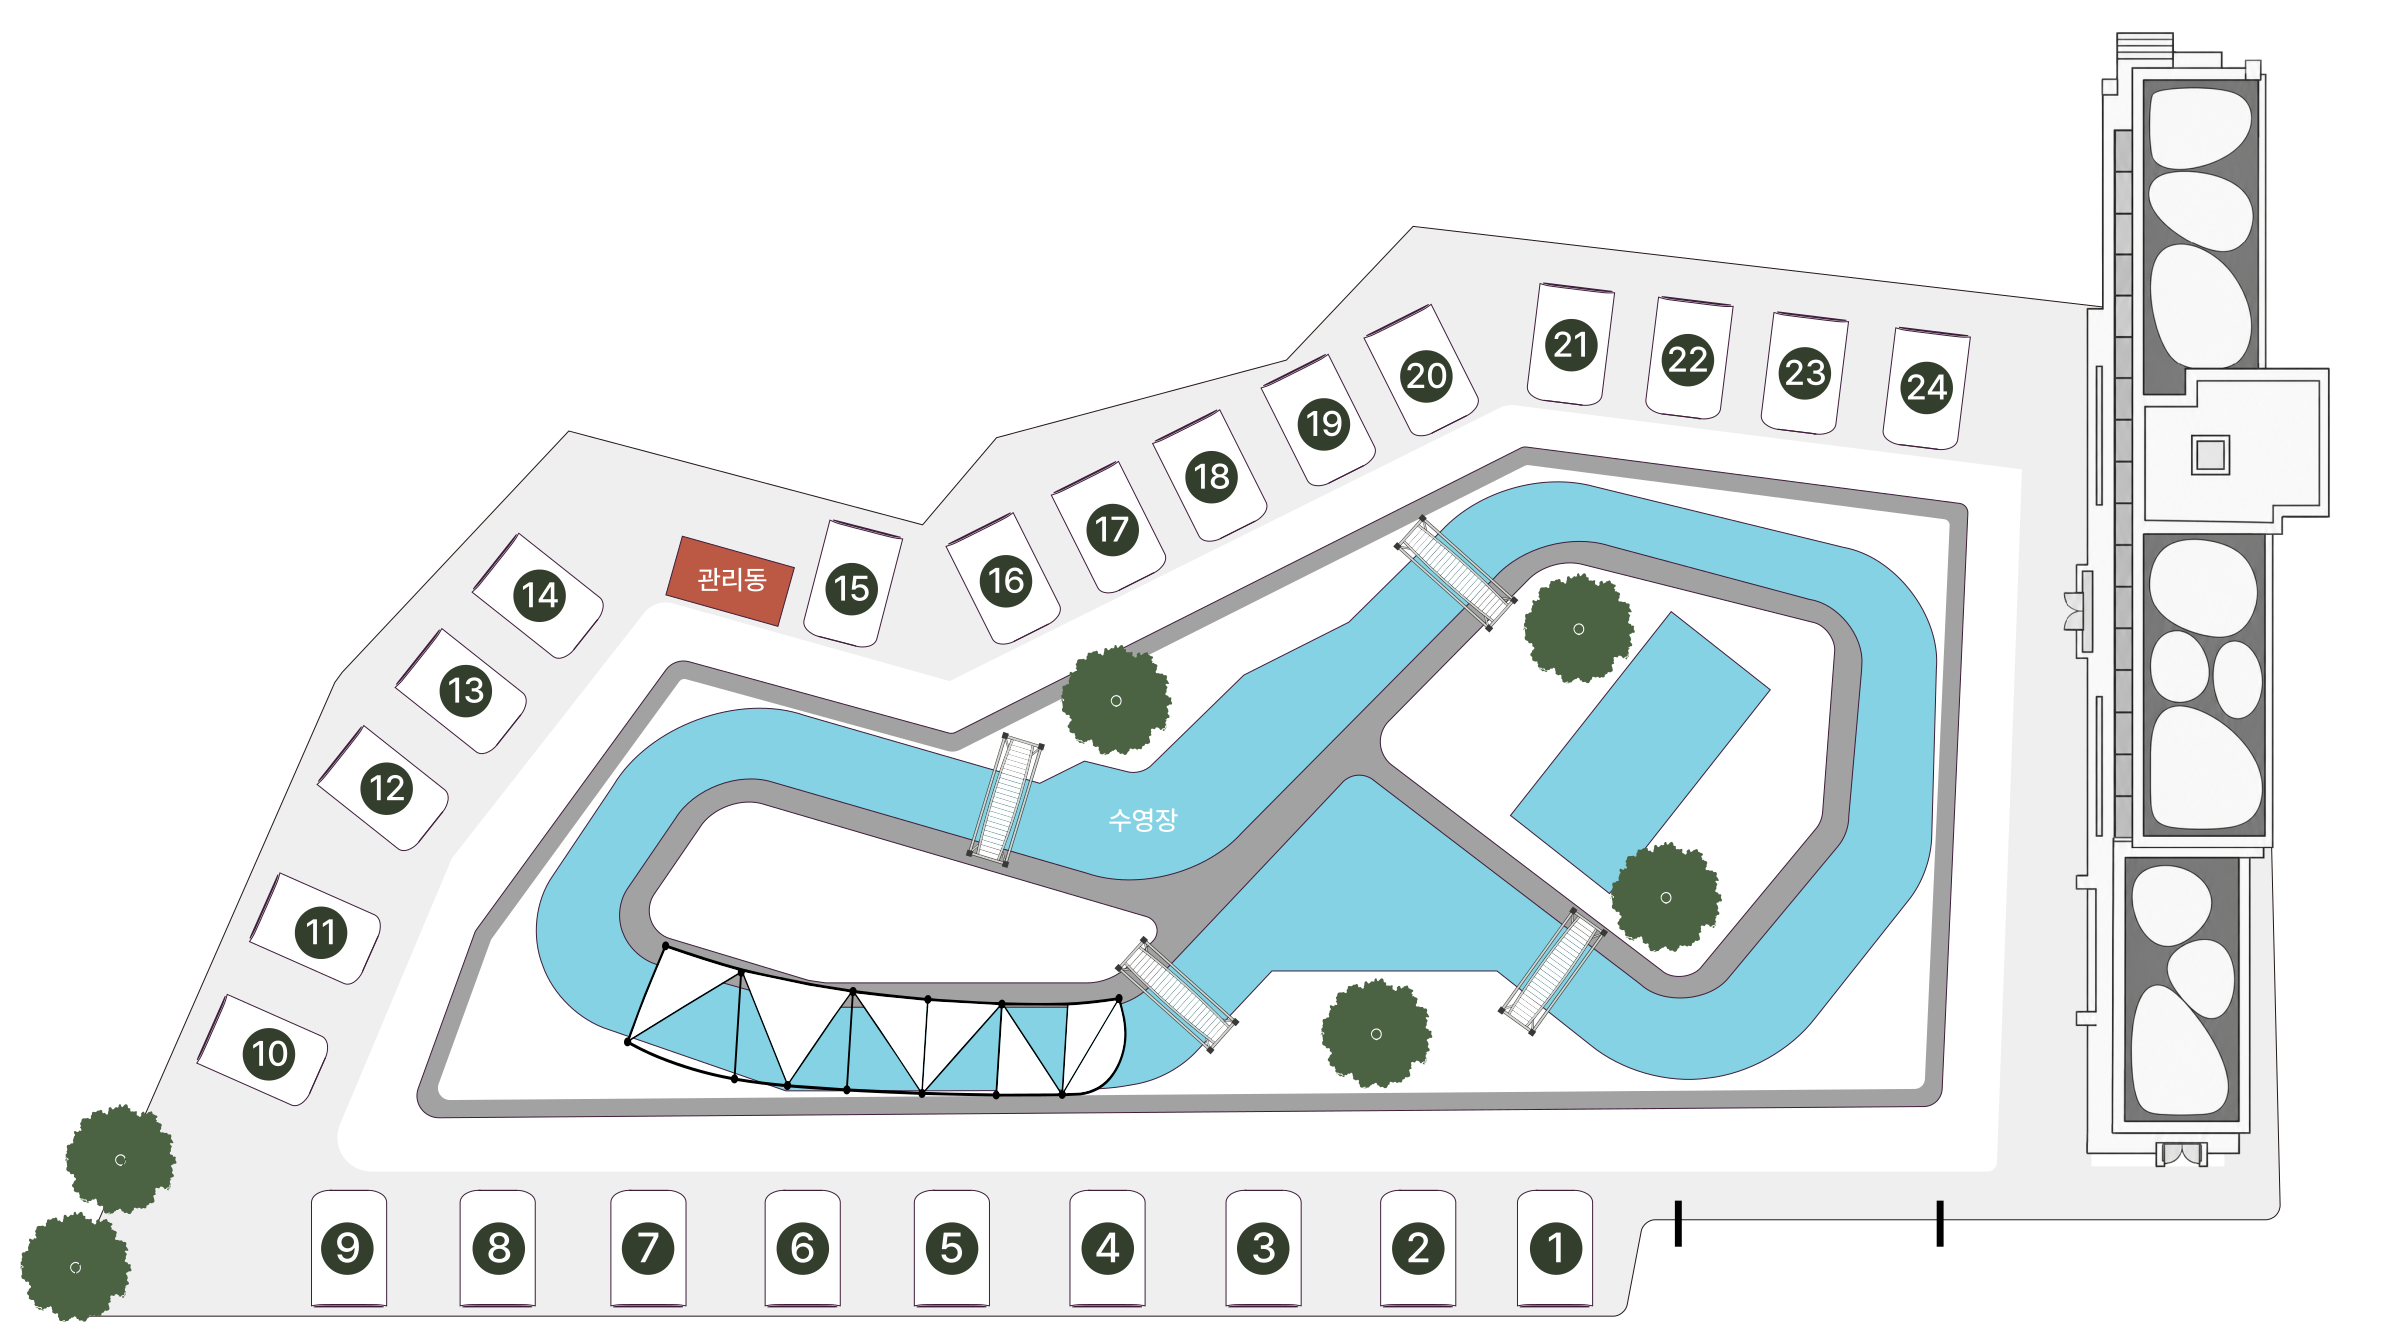
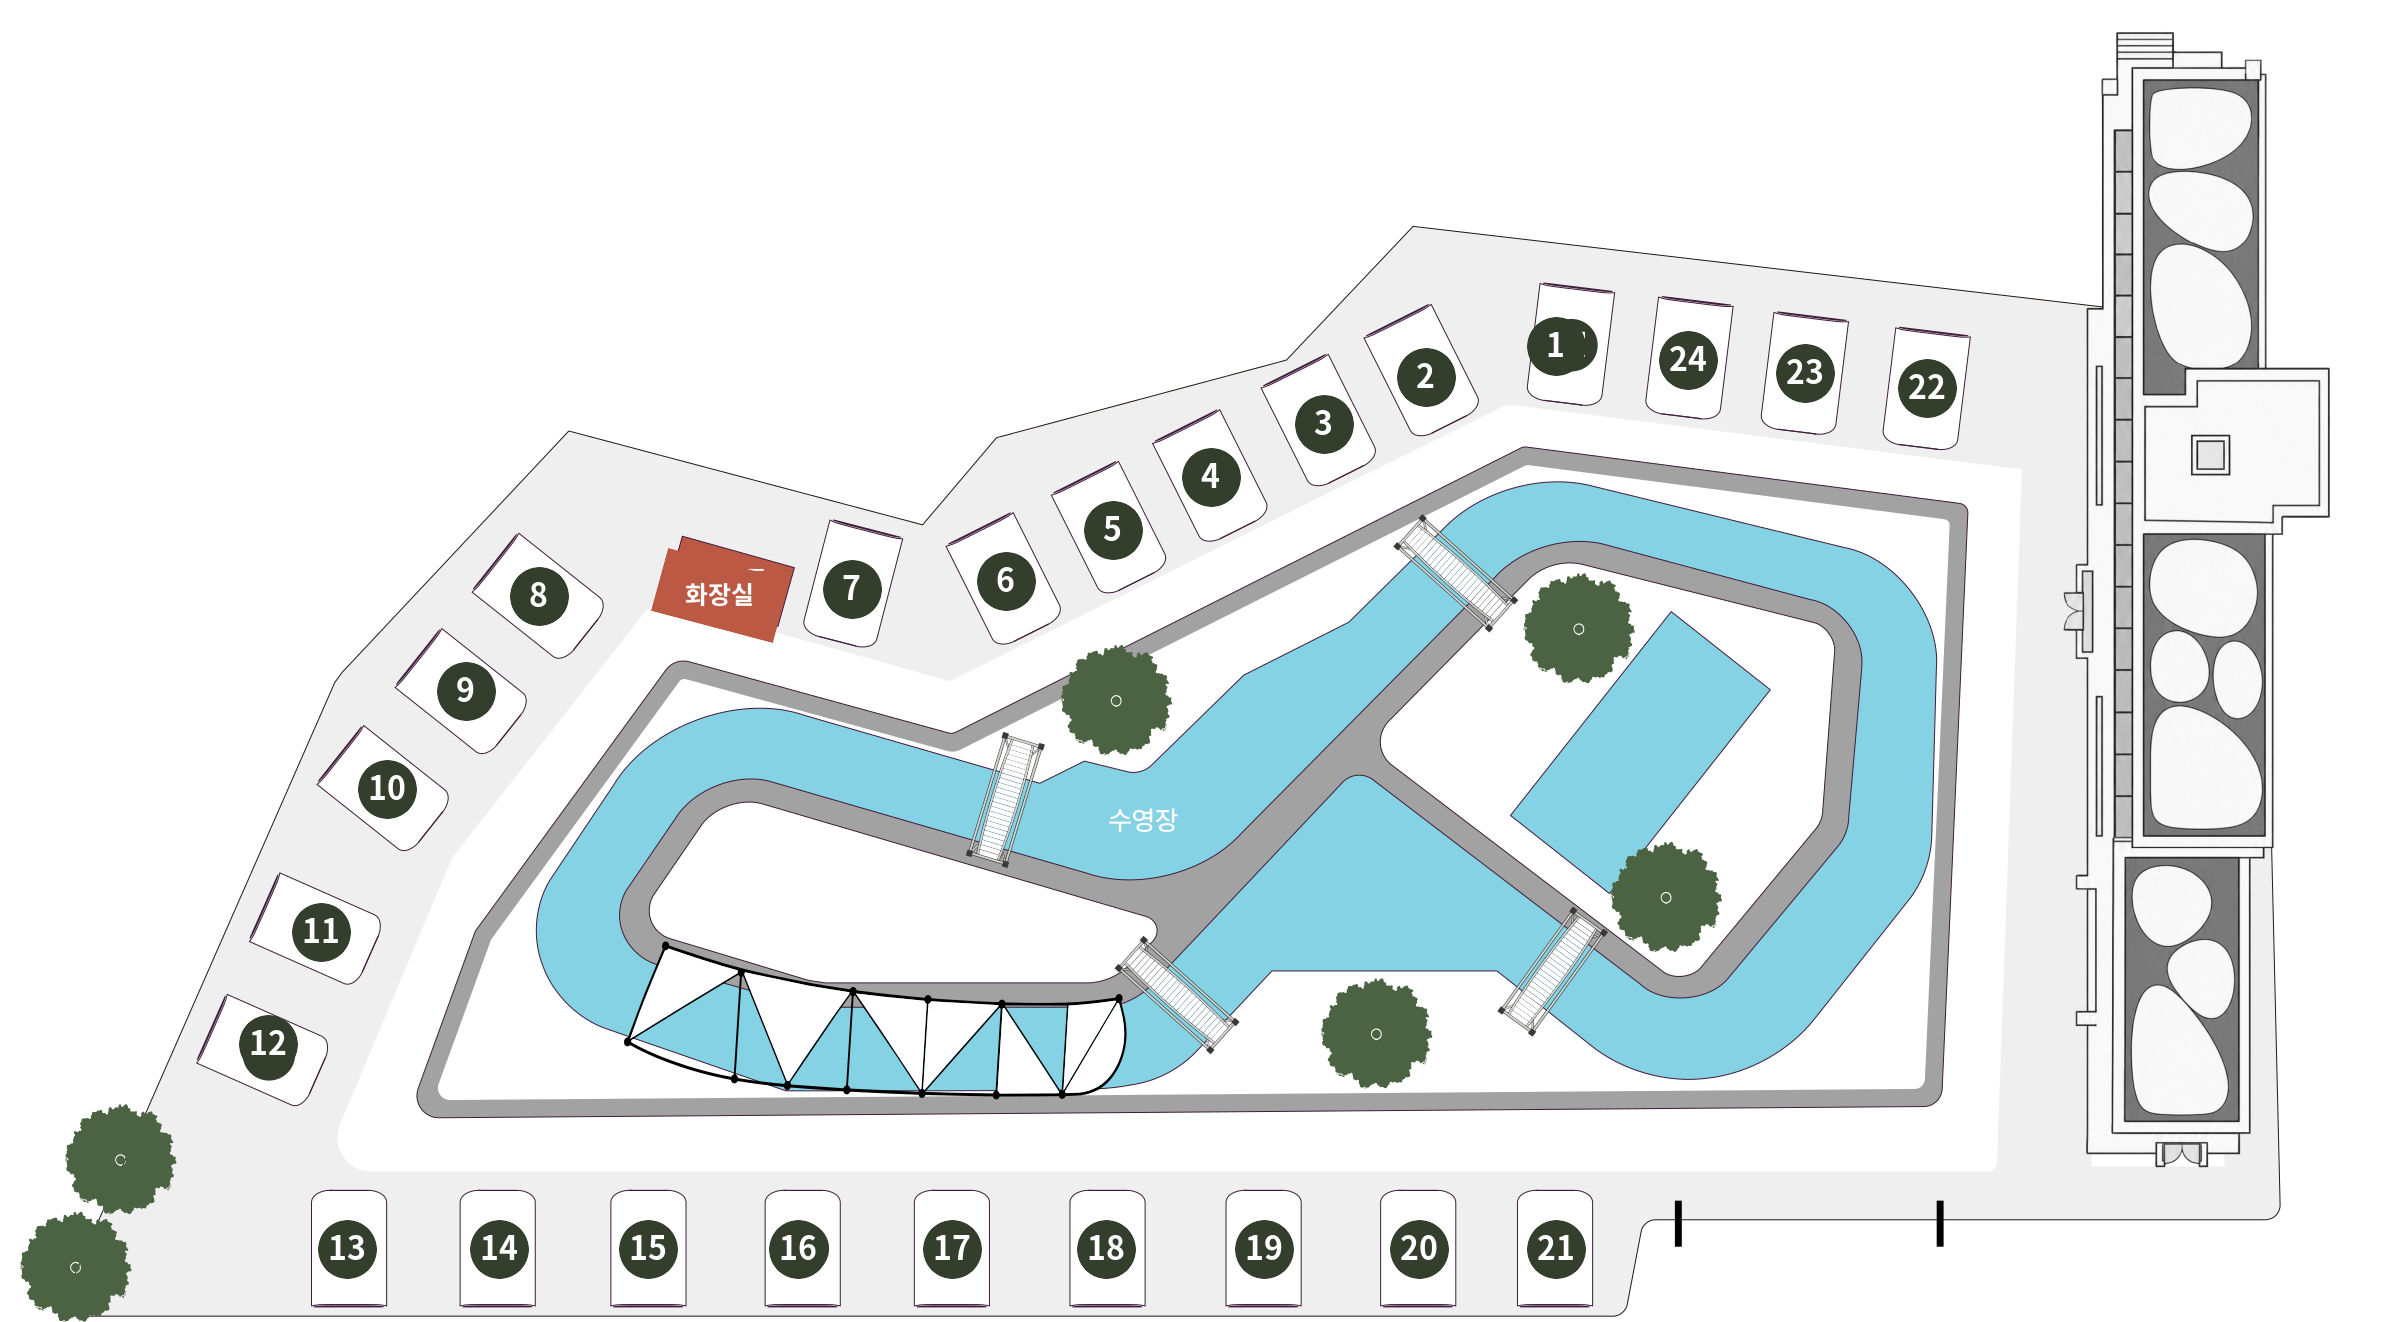
공간 안내 쉘터 번호 방향 및 화장실 표기 수정

diff --git a/space.html b/space.html
@@ -5,32 +5,32 @@
   <div class="container">
     <div class="site-map" data-site-map>
       <div class="site-map-canvas">
-        <img src="assets/images/relim-site-map.png" alt="1번부터 24번까지의 쉘터, 관리동과 수영장 위치를 표시한 리림 시설 안내도" width="2407" height="1322">
+        <img src="assets/images/relim-site-map.png" alt="최상단 1번부터 반시계 방향 24번까지의 쉘터, 화장실과 수영장 위치를 표시한 리림 시설 안내도" width="2407" height="1322">
         <div class="site-map-hotspots" aria-label="리림 쉘터 번호 선택">
-          <button class="site-hotspot" style="--x:64.65%;--y:94.45%" data-site="01" aria-label="리림 01번 쉘터"><span>01</span></button>
-          <button class="site-hotspot" style="--x:58.93%;--y:94.45%" data-site="02" aria-label="리림 02번 쉘터"><span>02</span></button>
-          <button class="site-hotspot" style="--x:52.48%;--y:94.45%" data-site="03" aria-label="리림 03번 쉘터"><span>03</span></button>
-          <button class="site-hotspot" style="--x:46.03%;--y:94.45%" data-site="04" aria-label="리림 04번 쉘터"><span>04</span></button>
-          <button class="site-hotspot" style="--x:39.55%;--y:94.45%" data-site="05" aria-label="리림 05번 쉘터"><span>05</span></button>
-          <button class="site-hotspot" style="--x:33.35%;--y:94.45%" data-site="06" aria-label="리림 06번 쉘터"><span>06</span></button>
-          <button class="site-hotspot" style="--x:26.92%;--y:94.45%" data-site="07" aria-label="리림 07번 쉘터"><span>07</span></button>
-          <button class="site-hotspot" style="--x:20.72%;--y:94.45%" data-site="08" aria-label="리림 08번 쉘터"><span>08</span></button>
-          <button class="site-hotspot" style="--x:14.43%;--y:94.45%" data-site="09" aria-label="리림 09번 쉘터"><span>09</span></button>
-          <button class="site-hotspot" style="--x:11.17%;--y:79.75%" data-site="10" aria-label="리림 10번 쉘터"><span>10</span></button>
+          <button class="site-hotspot" style="--x:65.29%;--y:26.11%" data-site="01" aria-label="리림 01번 쉘터"><span>01</span></button>
+          <button class="site-hotspot" style="--x:59.26%;--y:28.48%" data-site="02" aria-label="리림 02번 쉘터"><span>02</span></button>
+          <button class="site-hotspot" style="--x:55.00%;--y:32.11%" data-site="03" aria-label="리림 03번 쉘터"><span>03</span></button>
+          <button class="site-hotspot" style="--x:50.34%;--y:36.10%" data-site="04" aria-label="리림 04번 쉘터"><span>04</span></button>
+          <button class="site-hotspot" style="--x:46.23%;--y:40.10%" data-site="05" aria-label="리림 05번 쉘터"><span>05</span></button>
+          <button class="site-hotspot" style="--x:41.79%;--y:43.97%" data-site="06" aria-label="리림 06번 쉘터"><span>06</span></button>
+          <button class="site-hotspot" style="--x:35.39%;--y:44.56%" data-site="07" aria-label="리림 07번 쉘터"><span>07</span></button>
+          <button class="site-hotspot" style="--x:22.42%;--y:45.07%" data-site="08" aria-label="리림 08번 쉘터"><span>08</span></button>
+          <button class="site-hotspot" style="--x:19.35%;--y:52.28%" data-site="09" aria-label="리림 09번 쉘터"><span>09</span></button>
+          <button class="site-hotspot" style="--x:16.06%;--y:59.66%" data-site="10" aria-label="리림 10번 쉘터"><span>10</span></button>
           <button class="site-hotspot" style="--x:13.34%;--y:70.56%" data-site="11" aria-label="리림 11번 쉘터"><span>11</span></button>
-          <button class="site-hotspot" style="--x:16.06%;--y:59.66%" data-site="12" aria-label="리림 12번 쉘터"><span>12</span></button>
-          <button class="site-hotspot" style="--x:19.35%;--y:52.28%" data-site="13" aria-label="리림 13번 쉘터"><span>13</span></button>
-          <button class="site-hotspot" style="--x:22.42%;--y:45.07%" data-site="14" aria-label="리림 14번 쉘터"><span>14</span></button>
-          <button class="site-hotspot" style="--x:35.39%;--y:44.56%" data-site="15" aria-label="리림 15번 쉘터"><span>15</span></button>
-          <button class="site-hotspot" style="--x:41.79%;--y:43.97%" data-site="16" aria-label="리림 16번 쉘터"><span>16</span></button>
-          <button class="site-hotspot" style="--x:46.23%;--y:40.10%" data-site="17" aria-label="리림 17번 쉘터"><span>17</span></button>
-          <button class="site-hotspot" style="--x:50.34%;--y:36.10%" data-site="18" aria-label="리림 18번 쉘터"><span>18</span></button>
-          <button class="site-hotspot" style="--x:55.00%;--y:32.11%" data-site="19" aria-label="리림 19번 쉘터"><span>19</span></button>
-          <button class="site-hotspot" style="--x:59.26%;--y:28.48%" data-site="20" aria-label="리림 20번 쉘터"><span>20</span></button>
-          <button class="site-hotspot" style="--x:65.29%;--y:26.11%" data-site="21" aria-label="리림 21번 쉘터"><span>21</span></button>
-          <button class="site-hotspot" style="--x:70.13%;--y:27.25%" data-site="22" aria-label="리림 22번 쉘터"><span>22</span></button>
+          <button class="site-hotspot" style="--x:11.17%;--y:79.75%" data-site="12" aria-label="리림 12번 쉘터"><span>12</span></button>
+          <button class="site-hotspot" style="--x:14.43%;--y:94.45%" data-site="13" aria-label="리림 13번 쉘터"><span>13</span></button>
+          <button class="site-hotspot" style="--x:20.72%;--y:94.45%" data-site="14" aria-label="리림 14번 쉘터"><span>14</span></button>
+          <button class="site-hotspot" style="--x:26.92%;--y:94.45%" data-site="15" aria-label="리림 15번 쉘터"><span>15</span></button>
+          <button class="site-hotspot" style="--x:33.35%;--y:94.45%" data-site="16" aria-label="리림 16번 쉘터"><span>16</span></button>
+          <button class="site-hotspot" style="--x:39.55%;--y:94.45%" data-site="17" aria-label="리림 17번 쉘터"><span>17</span></button>
+          <button class="site-hotspot" style="--x:46.03%;--y:94.45%" data-site="18" aria-label="리림 18번 쉘터"><span>18</span></button>
+          <button class="site-hotspot" style="--x:52.48%;--y:94.45%" data-site="19" aria-label="리림 19번 쉘터"><span>19</span></button>
+          <button class="site-hotspot" style="--x:58.93%;--y:94.45%" data-site="20" aria-label="리림 20번 쉘터"><span>20</span></button>
+          <button class="site-hotspot" style="--x:64.65%;--y:94.45%" data-site="21" aria-label="리림 21번 쉘터"><span>21</span></button>
+          <button class="site-hotspot" style="--x:80.05%;--y:29.35%" data-site="22" aria-label="리림 22번 쉘터"><span>22</span></button>
           <button class="site-hotspot" style="--x:74.99%;--y:28.24%" data-site="23" aria-label="리림 23번 쉘터"><span>23</span></button>
-          <button class="site-hotspot" style="--x:80.05%;--y:29.35%" data-site="24" aria-label="리림 24번 쉘터"><span>24</span></button>
+          <button class="site-hotspot" style="--x:70.13%;--y:27.25%" data-site="24" aria-label="리림 24번 쉘터"><span>24</span></button>
         </div>
       </div>
 
@@ -39,7 +39,7 @@
         <strong class="site-map-number" data-site-number>01</strong>
         <div>
           <h3 data-site-title>리림 01번 쉘터</h3>
-          <p data-site-description>하단 진입부와 가까운 개별 이용 쉘터입니다. 예약 시 배정된 번호를 지도에서 확인해 주세요.</p>
+          <p data-site-description>수영장 위쪽 산책 동선을 따라 배치된 개별 이용 쉘터입니다. 예약 안내에 표기된 번호와 대조해 주세요.</p>
         </div>
       </div>
     </div>
@@ -56,7 +56,7 @@
     <div class="number-list map-facilities">
       <div class="number-row"><span class="num">A</span><h3>Pool & Water</h3><p>지도 중앙의 수영장과 수로입니다. 계절과 현장 운영 상황에 따라 이용 범위가 달라질 수 있습니다.</p></div>
       <div class="number-row"><span class="num">B</span><h3>Individual Shelter</h3><p>01번부터 24번까지 일행별로 배정되는 개별 쉘터입니다. 예약 확정 안내에서 배정 위치를 확인해 주세요.</p></div>
-      <div class="number-row"><span class="num">C</span><h3>관리동</h3><p>체크인과 현장 안내가 필요한 경우 방문하는 관리 공간입니다.</p></div>
+      <div class="number-row"><span class="num">C</span><h3>화장실</h3><p>쉘터 7번과 8번 사이에 위치한 공용 화장실입니다.</p></div>
     </div>
   </div>
 </section></main>

diff --git a/assets/js/script.js b/assets/js/script.js
@@ -35,13 +35,13 @@ function initSiteMap() {
 
   const getArea = (site) => {
     const number = Number(site);
-    if (number <= 9) {
-      return '하단 진입부와 가까운 개별 이용 쉘터입니다. 예약 시 배정된 번호를 지도에서 확인해 주세요.';
+    if (number <= 7 || number >= 22) {
+      return '수영장 위쪽 산책 동선을 따라 배치된 개별 이용 쉘터입니다. 예약 안내에 표기된 번호와 대조해 주세요.';
     }
-    if (number <= 14) {
+    if (number <= 12) {
       return '수영장 왼쪽 동선을 따라 배치된 개별 이용 쉘터입니다. 현장 이동 전 위치를 확인해 주세요.';
     }
-    return '수영장 위쪽 산책 동선을 따라 배치된 개별 이용 쉘터입니다. 예약 안내에 표기된 번호와 대조해 주세요.';
+    return '하단 진입부와 가까운 개별 이용 쉘터입니다. 예약 시 배정된 번호를 지도에서 확인해 주세요.';
   };
 
   const selectSite = (site, focus = false) => {
